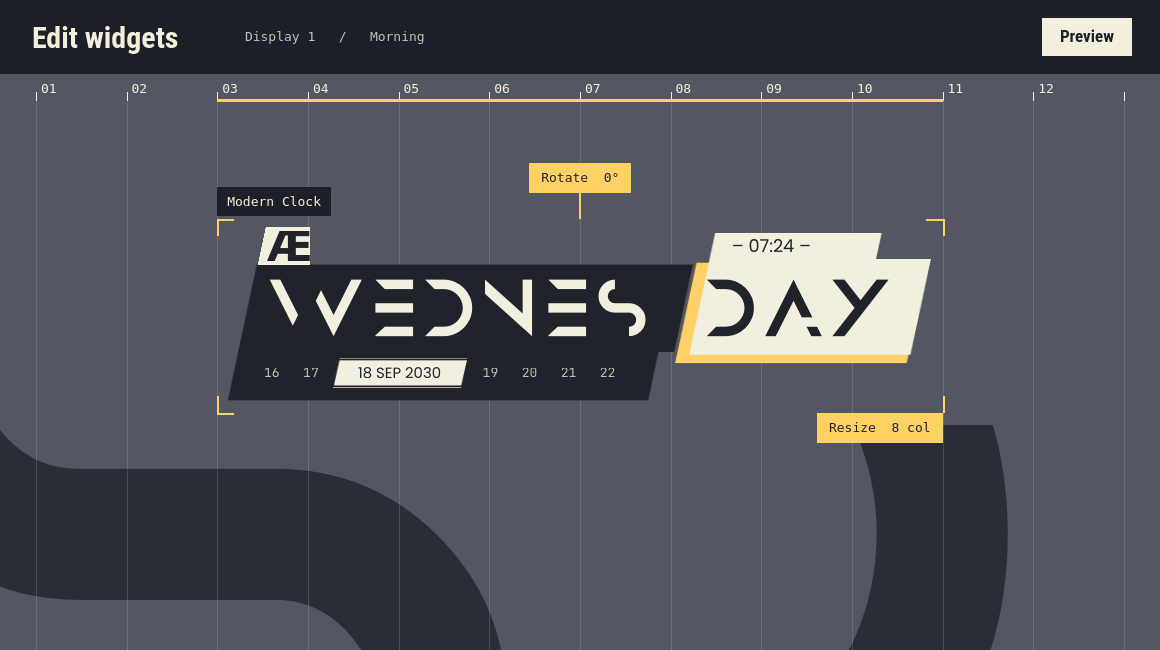
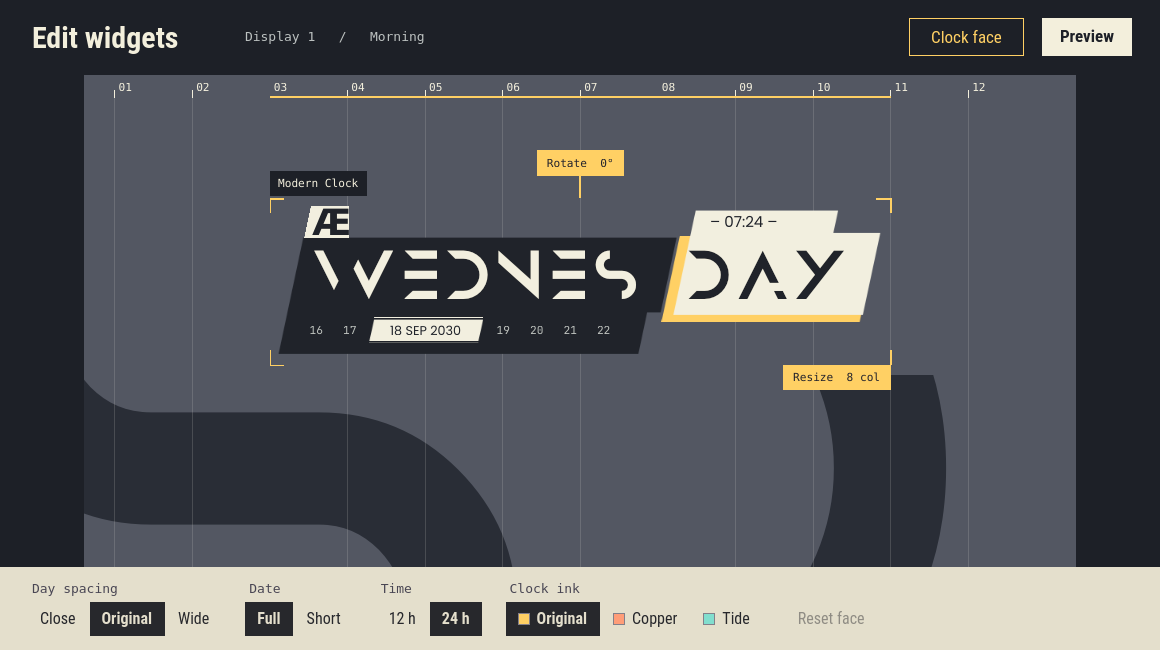
Add clock face controls to both widget editor studies

diff --git a/tools/widget-editor-study/FaceStrip.qml b/tools/widget-editor-study/FaceStrip.qml
@@ -1,0 +1,129 @@
+pragma ComponentBehavior: Bound
+import QtQuick
+import QtQuick.Controls
+
+Rectangle {
+    id: strip
+    required property bool fluid
+    property int spacingChoice: 1
+    property int inkChoice: 0
+    property bool twelveHour: false
+    property bool briefDate: false
+    readonly property int trackingOffset: [-8, 0, 3][spacingChoice]
+    readonly property var inks: fluid ? ["#30294d", "#603329", "#174652"]
+                                     : ["#ffd064", "#ff9d78", "#81dece"]
+    readonly property color chosenInk: inks[inkChoice]
+    readonly property bool changed: spacingChoice !== 1 || inkChoice !== 0 || twelveHour || briefDate
+    readonly property string sans: fluid ? "Noto Sans" : "Roboto Condensed"
+    readonly property color stock: fluid ? "#e9e5f2" : "#e4dfcc"
+    readonly property color ink: fluid ? "#30294d" : "#27282c"
+    color: stock
+    implicitHeight: groups.implicitHeight + 28
+
+    component Choice: AbstractButton {
+        id: button
+        property bool selected: false
+        property color swatch: "transparent"
+        property bool showSwatch: false
+        implicitWidth: label.implicitWidth + 24
+        implicitHeight: 34
+        contentItem: Item {
+            Row {
+                id: label
+                spacing: 7
+                anchors.centerIn: parent
+                Rectangle {
+                    visible: button.showSwatch
+                    width: 12; height: 12; radius: strip.fluid ? 6 : 0
+                    anchors.verticalCenter: parent.verticalCenter
+                    color: button.swatch; border.width: 1; border.color: "#83808a"
+                }
+                Text {
+                    text: button.text; font.family: strip.sans; font.pixelSize: 16
+                    font.weight: button.selected ? Font.DemiBold : Font.Normal
+                    color: button.selected ? strip.stock : strip.ink
+                }
+            }
+        }
+        background: Rectangle {
+            radius: strip.fluid ? height / 2 : 0
+            color: button.selected ? strip.ink : button.hovered ? "#26808080" : "transparent"
+            border.width: button.visualFocus ? 2 : 0
+            border.color: button.selected ? strip.stock : strip.ink
+        }
+    }
+
+    component ChoiceGroup: Column {
+        id: group
+        required property string title
+        required property var choices
+        required property int current
+        property var swatches: []
+        signal picked(int value)
+        spacing: 5
+        Text {
+            x: 4; text: group.title
+            font.family: strip.fluid ? strip.sans : "DejaVu Sans Mono"
+            font.pixelSize: 13; color: "#494653"
+        }
+        Row {
+            spacing: 2
+            Repeater {
+                model: group.choices
+                Choice {
+                    required property int index
+                    required property string modelData
+                    objectName: "face-" + group.title + "-" + index
+                    text: modelData
+                    selected: group.current === index
+                    Accessible.name: group.title + ", " + modelData
+                    Accessible.checkable: true
+                    Accessible.checked: selected
+                    showSwatch: group.swatches.length > 0
+                    swatch: showSwatch ? group.swatches[index] : "transparent"
+                    onClicked: group.picked(index)
+                }
+            }
+        }
+    }
+
+    Flow {
+        id: groups
+        x: 28; y: 14; width: parent.width - 56
+        spacing: 24
+        ChoiceGroup {
+            title: "Day spacing"; choices: ["Close", "Original", "Wide"]; current: strip.spacingChoice
+            onPicked: value => strip.spacingChoice = value
+        }
+        ChoiceGroup {
+            title: "Date"; choices: ["Full", "Short"]; current: strip.briefDate ? 1 : 0
+            onPicked: value => strip.briefDate = value === 1
+        }
+        ChoiceGroup {
+            title: "Time"; choices: ["12 h", "24 h"]; current: strip.twelveHour ? 0 : 1
+            onPicked: value => strip.twelveHour = value === 0
+        }
+        ChoiceGroup {
+            title: "Clock ink"; choices: ["Original", "Copper", "Tide"]; current: strip.inkChoice
+            swatches: strip.inks
+            onPicked: value => strip.inkChoice = value
+        }
+        Item {
+            width: reset.width; height: 55
+            Choice {
+                id: reset
+                objectName: "resetFace"
+                anchors.bottom: parent.bottom
+                text: "Reset face"
+                enabled: strip.changed
+                opacity: enabled ? 1 : .45
+                onClicked: {
+                    strip.spacingChoice = 1;
+                    strip.inkChoice = 0;
+                    strip.twelveHour = false;
+                    strip.briefDate = false;
+                }
+            }
+        }
+    }
+}

diff --git a/tools/widget-editor-study/EditorStudy.qml b/tools/widget-editor-study/EditorStudy.qml
@@ -1,6 +1,7 @@
 pragma ComponentBehavior: Bound
 import QtQuick
 import QtQuick.Window
+import QtQuick.Controls
 import QtCore
 import "../widget-study" as Widgets
 import "../login-clock-study" as Login
@@ -14,6 +15,8 @@ Window {
     readonly property bool fluid: args.includes("--fluid")
     readonly property bool margin: args.includes("--margin")
     property bool editing: true
+    property bool faceOpen: true
+    readonly property string timeLabel: faceStrip.twelveHour ? "– 7:24 AM –" : "– 07:24 –"
     property bool occupied: args.includes("--occupied")
     property string tool: "Move"
     readonly property string activeTool: pose.gesture || tool
@@ -82,7 +85,30 @@ Window {
                 x: 245; anchors.verticalCenter: parent.verticalCenter
                 text: "Display 1   /   Morning"
             }
+            AbstractButton {
+                id: appearance
+                objectName: "faceToggle"
+                visible: win.editing && !win.occupied
+                text: "Clock face"
+                anchors.right: previewAction.left; anchors.rightMargin: 18
+                anchors.verticalCenter: parent.verticalCenter
+                implicitWidth: 115; implicitHeight: 38
+                Accessible.checkable: true
+                Accessible.checked: win.faceOpen
+                onClicked: win.faceOpen = !win.faceOpen
+                contentItem: Words {
+                    horizontalAlignment: Text.AlignHCenter; verticalAlignment: Text.AlignVCenter
+                    text: appearance.text; color: win.faceOpen ? win.signal : win.paper
+                }
+                background: Rectangle {
+                    color: "transparent"
+                    radius: win.fluid ? 19 : 0
+                    border.width: appearance.visualFocus || win.faceOpen ? 1 : 0
+                    border.color: win.faceOpen ? win.signal : win.paper
+                }
+            }
             Rectangle {
+                id: previewAction
                 width: action.implicitWidth + 36; height: 38
                 radius: win.fluid ? 19 : 0
                 anchors.right: parent.right; anchors.rightMargin: 28; anchors.verticalCenter: parent.verticalCenter
@@ -98,7 +124,7 @@ Window {
 
         Item {
             id: viewport
-            y: header.height; height: sheet.height - y
+            y: header.height; height: sheet.height - y - (faceStrip.visible ? faceStrip.height : 0)
             width: sheet.width - (marginPanel.visible ? marginPanel.width : 0)
             clip: true
             Item {
@@ -156,16 +182,27 @@ Window {
                                 sourceComponent: win.fluid ? softDay : angularDay
                                 Component {
                                     id: angularDay
-                                    Widgets.DayIndex { dayFamily: win.dayFamily; detailFamily: win.smallFamily }
+                                    Widgets.DayIndex {
+                                        dayFamily: win.dayFamily; detailFamily: win.smallFamily
+                                        briefDate: faceStrip.briefDate
+                                        trackingOffset: faceStrip.trackingOffset
+                                        timeLabel: win.timeLabel; signal: faceStrip.chosenInk
+                                    }
                                 }
                                 Component {
                                     id: softDay
-                                    Widgets.OffcutClock { fluid: true; dayFamily: win.dayFamily; detailFamily: win.smallFamily }
+                                    Widgets.OffcutClock {
+                                        fluid: true; dayFamily: win.dayFamily; detailFamily: win.smallFamily
+                                        briefDate: faceStrip.briefDate
+                                        trackingOffset: faceStrip.trackingOffset
+                                        timeLabel: win.timeLabel; typeInk: faceStrip.chosenInk
+                                    }
                                 }
                             }
                             Login.PressMark {
                                 visible: !win.fluid
                                 x: 43; y: 10; width: 56; height: 40
+                                paper: faceStrip.inkChoice === 0 ? "#f2efdf" : faceStrip.chosenInk
                                 progress: 1; line: 3
                             }
                         }
@@ -217,6 +254,14 @@ Window {
             }
         }
 
+        FaceStrip {
+            id: faceStrip
+            objectName: "appearanceStrip"
+            fluid: win.fluid
+            visible: win.faceOpen && win.editing && !win.occupied
+            anchors.bottom: parent.bottom; width: parent.width
+            height: implicitHeight
+        }
         Rectangle {
             id: marginPanel
             anchors.right: parent.right; y: header.height; height: viewport.height; width: 286

diff --git a/tools/widget-study/DayIndex.qml b/tools/widget-study/DayIndex.qml
@@ -11,7 +11,10 @@ Item {
     property real rightPull: 1
     readonly property color paper: "#20232a"
     readonly property color ink: "#f2efdf"
-    readonly property color signal: "#ffd064"
+    property int trackingOffset: 0
+    property bool briefDate: false
+    property string timeLabel: "– 07:24 –"
+    property color signal: "#ffd064"
 
     Item {
         id: sheet
@@ -24,6 +27,7 @@ Item {
             required property color fill
             required property var points
             anchors.fill: parent
+            onFillChanged: requestPaint()
             onPaint: {
                 const c = getContext("2d");
                 c.reset();
@@ -37,14 +41,14 @@ Item {
         component Day: Text {
             font.family: clock.dayFamily
             font.pixelSize: 76
-            font.letterSpacing: 14
+            font.letterSpacing: 14 + clock.trackingOffset
         }
         SlantedReveal {
             width: 512; height: sheet.height
             amount: clock.leftPull
             x: -24 * (1 - amount)
             Plate { fill: clock.paper; points: [42,50, 511,50, 491,144, 474,144, 463,196, 11,196] }
-            Day { x: 56; y: 51; text: "WEDNES"; color: clock.ink }
+            Day { x: 56 - Math.max(0, clock.trackingOffset) * 2; y: 51; text: "WEDNES"; color: clock.ink }
             // FART's index ribbon repurposed as the fixture week (Mon 16–Sun 22).
             // The inverted tab expands to reveal the complete date.
             Row {
@@ -56,7 +60,8 @@ Item {
                         id: tab
                         required property int index
                         readonly property bool today: index === 2
-                        width: today ? 144 : 35
+                        visible: today || !clock.briefDate
+                        width: today ? (clock.briefDate ? 90 : 144) : 35
                         height: 33
                         opacity: today && clock.dateInFlight ? 0 : 1
                         Canvas {
@@ -75,7 +80,7 @@ Item {
                         }
                         Text {
                             anchors.centerIn: parent
-                            text: tab.today ? "18 SEP 2030" : String(16 + tab.index)
+                            text: tab.today ? (clock.briefDate ? "18 SEP" : "18 SEP 2030") : String(16 + tab.index)
                             color: tab.today ? clock.paper : "#bdc1bd"
                             font.family: tab.today ? clock.detailFamily : "JetBrains Mono"
                             font.pixelSize: tab.today ? 16 : 14
@@ -99,7 +104,7 @@ Item {
             Day { x: 34; y: 51; text: "DAY"; color: clock.paper }
             Text {
                 x: 61; y: 17
-                text: "– 07:24 –"
+                text: clock.timeLabel
                 font.family: clock.detailFamily
                 font.pixelSize: 19
                 color: clock.paper

diff --git a/tools/widget-study/OffcutClock.qml b/tools/widget-study/OffcutClock.qml
@@ -6,6 +6,10 @@ Item {
     required property bool fluid
     required property string dayFamily
     required property string detailFamily
+    property int trackingOffset: 0
+    property bool briefDate: false
+    property color typeInk: fluid ? "#30294d" : "#41232b"
+    property string timeLabel: "– 07:24 –"
 
     Text {
         id: day
@@ -14,8 +18,8 @@ Item {
         text: "WEDNESDAY"
         font.family: face.dayFamily
         font.pixelSize: 82
-        font.letterSpacing: 15
-        color: face.fluid ? "#30294d" : "#41232b"
+        font.letterSpacing: 15 + face.trackingOffset
+        color: face.typeInk
     }
     Item {
         anchors.horizontalCenter: parent.horizontalCenter
@@ -24,7 +28,7 @@ Item {
         width: face.fluid ? date.implicitWidth + 30 + time.implicitWidth : day.implicitWidth - 18
         Text {
             id: date
-            text: face.fluid ? "18 September 2030" : "18 SEP 2030"
+            text: face.briefDate ? "18 Sep" : face.fluid ? "18 September 2030" : "18 SEP 2030"
             font.family: face.detailFamily
             font.pixelSize: 18
             font.letterSpacing: face.fluid ? 0 : 1.5
@@ -33,7 +37,7 @@ Item {
         Text {
             id: time
             anchors.right: parent.right
-            text: "– 07:24 –"
+            text: face.timeLabel
             font.family: face.detailFamily
             font.pixelSize: 18
             color: day.color

diff --git a/tools/login-clock-study/PressMark.qml b/tools/login-clock-study/PressMark.qml
@@ -15,9 +15,11 @@ Item {
         scale: mark.width / width
         Canvas {
             anchors.fill: parent
+            property color fill: mark.paper
+            onFillChanged: requestPaint()
             onPaint: {
                 const c = getContext("2d");
-                c.fillStyle = mark.paper;
+                c.fillStyle = fill;
                 c.beginPath();
                 c.moveTo(66, 0); c.lineTo(width, 0); c.lineTo(width, height);
                 c.lineTo(1, height); c.closePath(); c.fill();

diff --git a/tools/widget-editor-study/README.md b/tools/widget-editor-study/README.md
@@ -1,4 +1,4 @@
-# Placing the Modern Clock
+# Editing the Modern Clock
 
 The two studies open inside *Edit widgets*, the editor reached from the desktop context menu (Z46, Z86). They show one invented monitor and its Morning preset. Changes last for this fixture session.
 
@@ -7,7 +7,18 @@ The two studies open inside *Edit widgets*, the editor reached from the desktop 
 | A · Chase | [Open](chase-angular.png) | [Open](chase-fluid.png) | Drag the clock to move it. Drag the upper handle to rotate, or the lower-right tab to change its span. The handles follow the clock. |
 | B · Margin | [Open](margin-angular.png) | [Open](margin-fluid.png) | Choose Move, Resize or Rotate in the margin. Drag the clock, or use the ruler to choose an exact starting column, width or angle. Its endpoints show the available range. |
 
-[Compare resize and rotation in motion](comparison.webp). Chase is on the left. Margin is on the right. The ring follows the synthetic pointer in each offscreen session.
+The **Clock face** strip edits the clock in place. Toggle it in the header to give the desktop more room.
+
+| Control | Choices | On the clock |
+| --- | --- | --- |
+| Day spacing | Close, Original, Wide | Changes the space between the Anurati letters. |
+| Date | Full, Short | Angular can show the week ribbon or just today’s tab. Fluid can show the full written date or a short day and month. |
+| Time | 12 h, 24 h | Displays the sample time as “– 7:24 AM –” or “– 07:24 –”. |
+| Clock ink | Original, Copper, Tide | Tints the Angular backing and Æ stamp, or the Fluid lettering. |
+
+**Reset face** restores the four face settings and keeps the clock’s position, size and angle. Face settings survive preview and workspace occupancy during the fixture session.
+
+Watch the controls on [Angular Chase](face-angular.webp) or [Fluid Margin](face-fluid.webp). The [earlier placement comparison](comparison.webp) shows resize and rotation in the original placement-only view, with Chase on the left and Margin on the right.
 
 Both editors work in the same 12-column space. Margin scales the desktop preview uniformly so opening the full preview preserves the widget’s placement. **Preview** hides the controls. **Edit widgets** brings them back. Escape toggles preview. Space simulates an occupied or empty workspace to exercise clock unloading (Z85).
 

diff --git a/HANDOFF.md b/HANDOFF.md
@@ -1,8 +1,8 @@
 # Astra → Claude A · `codex/widget-editor-study` ready to merge
 
-23 November 2026. Next S10 visual pick: two ways to edit the Modern Clock on the 12-column desktop grid (Z46, Z85, Z86). A · Chase keeps rotation and resize handles on the clock. B · Margin gives the active operation a calibrated side ruler and scales the full desktop into the remaining space. Both have Angular and Fluid renders in `tools/widget-editor-study/`. The comparison WebP shows the same two gestures with synthetic pointers.
+24 November 2026. The S10 Modern Clock editor study has two placement treatments. A · Chase attaches resize and rotate handles to the clock. B · Margin puts the controls on a side ruler. Each now has a collapsible Clock face strip for Anurati weekday spacing, date length, time format and ink. Reset face preserves placement. See `tools/widget-editor-study/face-angular.webp` and `face-fluid.webp` for offscreen recordings of the controls. The README links all four layouts.
 
-Qt 6 qmllint passed. Offscreen pointer checks in all four combinations moved the clock by one column, resized it and rotated it. Preview preserved the pose. Simulated occupancy destroyed the clock and returning to empty recreated it. These fixtures use one invented display and preset. Next task is the owner’s choice of editor treatment. Claude A owns native wiring and persistence.
+Qt 6 qmllint passed. Offscreen pointer checks covered the face controls in all four combinations. Preview and simulated occupancy preserved the face choices, occupancy unloaded the clock, and reset preserved a rotated pose. Both default clock faces matched their original PNGs pixel for pixel. The earlier placement checks covered move, resize and rotation. Settings last for the fixture session. Next is the owner’s pick between Chase and Margin and which face options to carry into Claude A’s native editor.
 
 # Astra → Claude A · `codex/login-clock-study` ready to merge
 
